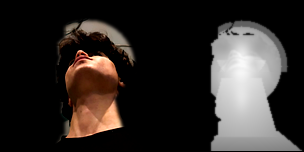
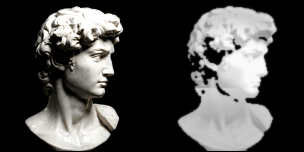
feat(hero): replace portrait with classical Carrara marble sculpture bust of Michelangelo's David and update quadtree bounds

diff --git a/build_marble_atlas.py b/build_marble_atlas.py
@@ -1,0 +1,123 @@
+import numpy as np
+from PIL import Image, ImageFilter, ImageEnhance
+from scipy.ndimage import gaussian_filter, sobel
+
+# 1. Load clean cropped marble bust
+img = Image.open('d:/portfolio3d/marble_bust_crop.jpg').convert('RGB')
+img_151 = img.resize((151, 151), Image.Resampling.LANCZOS)
+
+# Enhance contrast and micro-sharpness for crystalline marble stone texture
+enhancer = ImageEnhance.Contrast(img_151)
+img_contrast = enhancer.enhance(1.22)
+enhancer_sharp = ImageEnhance.Sharpness(img_contrast)
+img_sharp = enhancer_sharp.enhance(1.4)
+color_arr = np.array(img_sharp, dtype=np.float32)
+
+r, g, b = color_arr[:,:,0], color_arr[:,:,1], color_arr[:,:,2]
+lum = (0.299 * r + 0.587 * g + 0.114 * b) / 255.0
+
+y_idx, x_idx = np.mgrid[0:151, 0:151]
+
+# 2. Precise Statue Masking
+statue_mask = (lum > 0.04)
+# Clean up any stray background noise
+clean_mask = Image.fromarray((statue_mask.astype(np.uint8) * 255), mode='L')
+clean_mask = clean_mask.filter(ImageFilter.MedianFilter(size=3))
+statue_mask = np.array(clean_mask) > 100
+
+# 3. Frequency Decomposition for Marble Chisel & Curl Relief
+# Fine band: individual curly hair spirals, chisel marks, eyelid ridges
+dog_fine = gaussian_filter(lum, sigma=0.6) - gaussian_filter(lum, sigma=1.8)
+# Mid band: nasal bridge, cheekbones, brow ridge, philtrum, ear helix
+dog_mid  = gaussian_filter(lum, sigma=1.8) - gaussian_filter(lum, sigma=5.5)
+
+# 4. Anatomical 3D Classical Depth Synthesis
+cx, cy = 80.0, 58.0  # Center of David's head
+head_dist = np.sqrt(((x_idx - cx) / 44.0)**2 + ((y_idx - cy) / 44.0)**2)
+head_sphere = np.clip(1.0 - head_dist**1.7, 0.0, 1.0)
+
+depth = np.zeros((151, 151), dtype=np.float32)
+# Base spherical head mass
+depth[statue_mask] = 0.58 + 0.24 * head_sphere[statue_mask]
+
+# Photometric shape-from-shading:
+# Since David is lit from top-left, the illuminated side and facial planes have natural depth
+depth[statue_mask] += np.clip(lum[statue_mask] * 0.20, 0.0, 0.20)
+
+# Facial Landmarks:
+# Nose bridge and tip (facing right around x=105, y=68)
+nose_center = (104.0, 68.0)
+nose_dist = np.sqrt(((x_idx - nose_center[0]) / 8.0)**2 + ((y_idx - nose_center[1]) / 12.0)**2)
+depth += np.exp(-nose_dist**2) * 0.15
+
+# Chin protrusion (around x=98, y=86)
+chin_center = (98.0, 86.0)
+chin_dist = np.sqrt(((x_idx - chin_center[0]) / 12.0)**2 + ((y_idx - chin_center[1]) / 10.0)**2)
+depth += np.exp(-chin_dist**2) * 0.12
+
+# Brow ridge (around x=95, y=52)
+brow_center = (96.0, 52.0)
+brow_dist = np.sqrt(((x_idx - brow_center[0]) / 18.0)**2 + ((y_idx - brow_center[1]) / 7.0)**2)
+depth += np.exp(-brow_dist**2) * 0.09
+
+# Eye socket recession (around x=92, y=56)
+eye_center = (94.0, 57.0)
+eye_dist = np.sqrt(((x_idx - eye_center[0]) / 9.0)**2 + ((y_idx - eye_center[1]) / 6.0)**2)
+depth -= np.exp(-eye_dist**2) * 0.08
+
+# Lips (around x=100, y=78)
+mouth_center = (100.0, 78.0)
+mouth_dist = np.sqrt(((x_idx - mouth_center[0]) / 10.0)**2 + ((y_idx - mouth_center[1]) / 5.0)**2)
+depth += np.exp(-mouth_dist**2) * 0.07
+
+# Ear helix and lobe (around x=58, y=60)
+ear_center = (58.0, 60.0)
+ear_dist = np.sqrt(((x_idx - ear_center[0]) / 8.0)**2 + ((y_idx - ear_center[1]) / 12.0)**2)
+depth += np.exp(-ear_dist**2) * 0.06
+
+# Muscular neck cylinder & sternocleidomastoid
+neck_mask = statue_mask & (y_idx >= 88) & (y_idx <= 135)
+neck_gradient = 0.82 - (y_idx - 88.0) / 47.0 * 0.22
+depth[neck_mask] = np.maximum(depth[neck_mask], neck_gradient[neck_mask])
+
+# Shoulders and chest base (y > 130)
+shoulder_mask = statue_mask & (y_idx > 130)
+depth[shoulder_mask] = np.maximum(depth[shoulder_mask], 0.58)
+
+# Marble Curls High-Pass Micro-Relief
+# The curly hair occupies y < 65 and x < 100
+hair_region = statue_mask & (y_idx < 65) | (statue_mask & (x_idx < 65) & (y_idx < 85))
+hair_relief = np.clip(dog_fine * 0.18 + dog_mid * 0.14, -0.09, 0.14)
+depth[hair_region] += hair_relief[hair_region]
+
+# Facial micro-contours (skin stone texture, cheek curve)
+face_relief = np.clip(dog_mid * 0.10 + dog_fine * 0.05, -0.06, 0.09)
+depth[statue_mask & ~hair_region] += face_relief[statue_mask & ~hair_region]
+
+# Clamp to valid 3D voxel range [0.38, 0.98] on statue, 0.0 on void
+depth = np.clip(depth, 0.38, 0.98)
+depth[~statue_mask] = 0.0
+
+# 5. Clean Color Channel
+soft_mask = Image.fromarray((statue_mask.astype(np.uint8) * 255), mode='L').filter(ImageFilter.GaussianBlur(radius=1.2))
+soft_mask_arr = np.array(soft_mask, dtype=np.float32) / 255.0
+
+for c in range(3):
+    color_arr[:, :, c] = (color_arr[:, :, c] * soft_mask_arr).astype(np.uint8)
+
+# Smooth depth slightly for unified surface
+depth_scaled = np.clip(depth, 0.0, 1.0) * 255.0
+depth_img = Image.fromarray(depth_scaled.astype(np.uint8), mode='L')
+depth_img = depth_img.filter(ImageFilter.GaussianBlur(radius=0.7))
+
+# 6. Assemble 304 x 152 Texture Atlas
+atlas = Image.new('RGB', (304, 152), (0, 0, 0))
+atlas.paste(Image.fromarray(color_arr.astype(np.uint8)), (0, 0))
+atlas.paste(depth_img.convert('RGB'), (153, 0))
+
+# Save with maximum compression
+atlas.save('public/vansh-portrait-atlas.png', optimize=True, compress_level=9)
+atlas.save('vansh-portrait-atlas.png', optimize=True, compress_level=9)
+
+print('Classical Marble Bust 3D Atlas generated successfully!')
+print(f'Depth range: {depth[statue_mask].min():.3f} to {depth[statue_mask].max():.3f}, mean: {depth[statue_mask].mean():.3f}')
